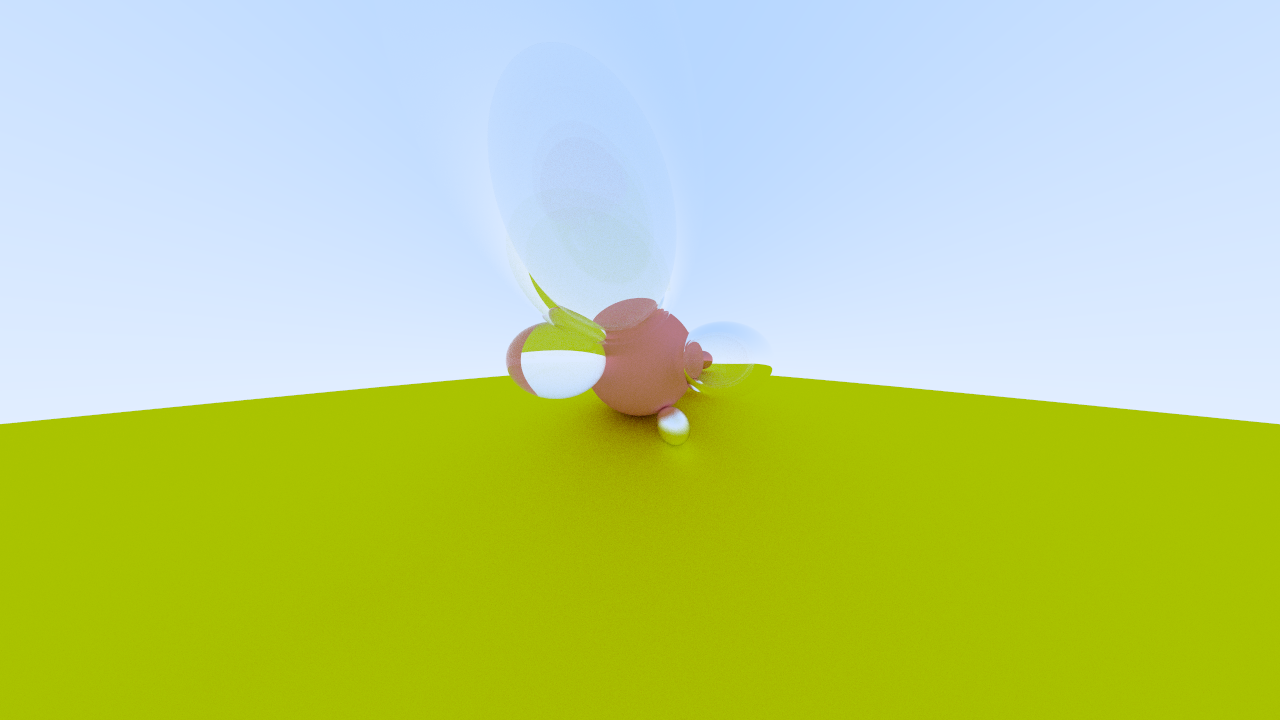
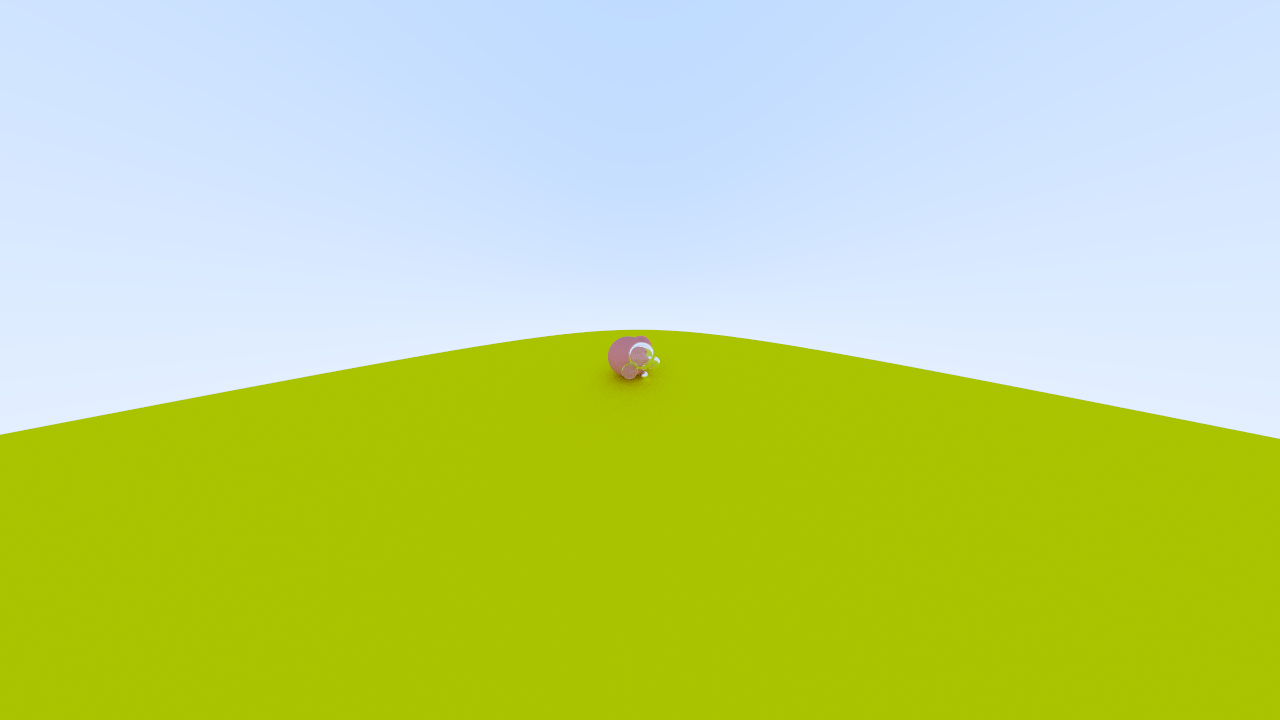
feat(Ray Tracing in One Weekend): camera pos, look_at and up

diff --git a/Courses/[2024-09-04] Ray Tracing in One Weekend/raytracing/workspace/c11-camera-pro/src/camera.rs b/Courses/[2024-09-04] Ray Tracing in One Weekend/raytracing/workspace/c11-camera-pro/src/camera.rs
@@ -37,7 +37,11 @@ pub struct Camera {
     aspect_ratio: f32,
     viewport_height: f32,
     viewport_width: f32,
-    camera_center: Vec3,
+
+    pos: Vec3,
+    look_at: Vec3,
+    up: Vec3,
+
     samples_per_pixel: u32,
     max_depth: u32,
 }
@@ -60,7 +64,11 @@ impl Default for Camera {
 
             viewport_height,
             viewport_width,
-            camera_center: Vec3::ZERO,
+
+            pos: Vec3::ZERO,
+            look_at: Vec3::new(0.0, 0.0, -1.0),
+            up: Vec3::new(0.0, 1.0, 0.0),
+
             samples_per_pixel: 100,
             max_depth: 50,
         }
@@ -80,8 +88,18 @@ impl Camera {
         }
     }
 
-    pub fn camera_center(mut self, camera_center: Vec3) -> Self {
-        self.camera_center = camera_center;
+    pub fn pos(mut self, pos: Vec3) -> Self {
+        self.pos = pos;
+        self
+    }
+
+    pub fn look_at(mut self, look_at: Vec3) -> Self {
+        self.look_at = look_at;
+        self
+    }
+
+    pub fn up(mut self, up: Vec3) -> Self {
+        self.up = up.normalize();
         self
     }
 
@@ -105,38 +123,57 @@ impl Camera {
         self
     }
 
-    pub fn set_focal_length(&mut self, focal_length: f32) {
+    pub fn set_focal_length(&mut self, focal_length: f32) -> &mut Self {
         self.focal_length = focal_length;
 
         let theta = self.fov.to_radians();
         let h = focal_length * (theta / 2.0).tan();
         self.viewport_height = 2.0 * h;
         self.viewport_width = self.viewport_height * self.aspect_ratio;
+        self
     }
 
-    pub fn set_fov(&mut self, fov: f32) {
+    pub fn set_fov(&mut self, fov: f32) -> &mut Self {
         self.fov = fov;
 
         let theta = fov.to_radians();
         let h = self.focal_length * (theta / 2.0).tan();
         self.viewport_height = 2.0 * h;
         self.viewport_width = self.viewport_height * self.aspect_ratio;
+        self
+    }
+
+    pub fn set_pos(&mut self, pos: Vec3) -> &mut Self {
+        self.pos = pos;
+        self
+    }
+
+    pub fn set_look_at(&mut self, look_at: Vec3) -> &mut Self {
+        self.look_at = look_at;
+        self
+    }
+
+    pub fn set_up(&mut self, up: Vec3) -> &mut Self {
+        self.up = up.normalize();
+        self
     }
 }
 
 impl Camera {
     pub fn render_to_path(&self, world: &World, output_width: u32, path: impl AsRef<Path>) {
-        // Camera
-        let viewport_u = Vec3::new(self.viewport_width, 0.0, 0.0);
-        let viewport_v = Vec3::new(0.0, -self.viewport_height, 0.0);
+        let back = (self.pos - self.look_at).normalize();
+        let right = self.up.cross(back).normalize();
+        let up = back.cross(right).normalize();
+
+        let viewport_u = self.viewport_width * right;
+        let viewport_v = -self.viewport_height * up;
 
         let output_height = (output_width as f32 / self.aspect_ratio) as u32;
-
         let pixel_delta_u = viewport_u / output_width as f32;
         let pixel_delta_v = viewport_v / output_height as f32;
 
-        let viewport_upper_left = self.camera_center
-            - Vec3::new(0.0, 0.0, self.focal_length)
+        let viewport_upper_left = self.pos
+            - self.focal_length * back
             - viewport_u / 2.0
             - viewport_v / 2.0;
         let pixel00_loc = viewport_upper_left + 0.5 * (pixel_delta_u + pixel_delta_v);
@@ -155,8 +192,8 @@ impl Camera {
                     );
 
                     let ray = Ray::new(
-                        self.camera_center,
-                        pixel_center + rand_offset - self.camera_center,
+                        self.pos,
+                        pixel_center + rand_offset - self.pos,
                     );
 
                     ray_color(&ray, world, self.max_depth)

diff --git a/Courses/[2024-09-04] Ray Tracing in One Weekend/raytracing/workspace/c11-camera-pro/src/main.rs b/Courses/[2024-09-04] Ray Tracing in One Weekend/raytracing/workspace/c11-camera-pro/src/main.rs
@@ -63,7 +63,9 @@ fn main() {
     // let (image_width, image_height) = (400, 225);
     let aspect_ratio = image_width as f32 / image_height as f32; // real aspect ratio
 
-    let mut camera = Camera::new(aspect_ratio);
+    let mut camera = Camera::new(aspect_ratio)
+        .pos(Vec3::new(-1.0, 1.0, 1.0))
+        .look_at(Vec3::new(0.1, 0.03, -0.64));
 
     camera.render_to_path(&world, image_width, "image_c11-fov90.png");
 

diff --git a/Courses/[2024-09-04] Ray Tracing in One Weekend/c11-camera-pro.md b/Courses/[2024-09-04] Ray Tracing in One Weekend/c11-camera-pro.md
@@ -2,8 +2,6 @@
 
 FOV、位置、朝向、旋转
 
-![image_c11](./assets/image_c11.png)
-
 比较简单，自己看代码吧。
 
 FOV 30、90、150:
@@ -11,4 +9,3 @@ FOV 30、90、150:
 ![image_c11-fov30](./assets/image_c11-fov30.png)
 ![image_c11-fov90](./assets/image_c11-fov90.png)
 ![image_c11-fov150](./assets/image_c11-fov150.png)
-

diff --git a/Courses/[2024-09-04] Ray Tracing in One Weekend/README.md b/Courses/[2024-09-04] Ray Tracing in One Weekend/README.md
@@ -64,4 +64,8 @@
     ![image_c10](./assets/image_c10.png)
 - [c11-camera-pro](./c11-camera-pro.md)
 
-    FOV、位置、朝向
+    FOV、位置、朝向、旋转
+
+    ![image_c11-fov30](./assets/image_c11-fov30.png)
+    ![image_c11-fov90](./assets/image_c11-fov90.png)
+    ![image_c11-fov150](./assets/image_c11-fov150.png)
